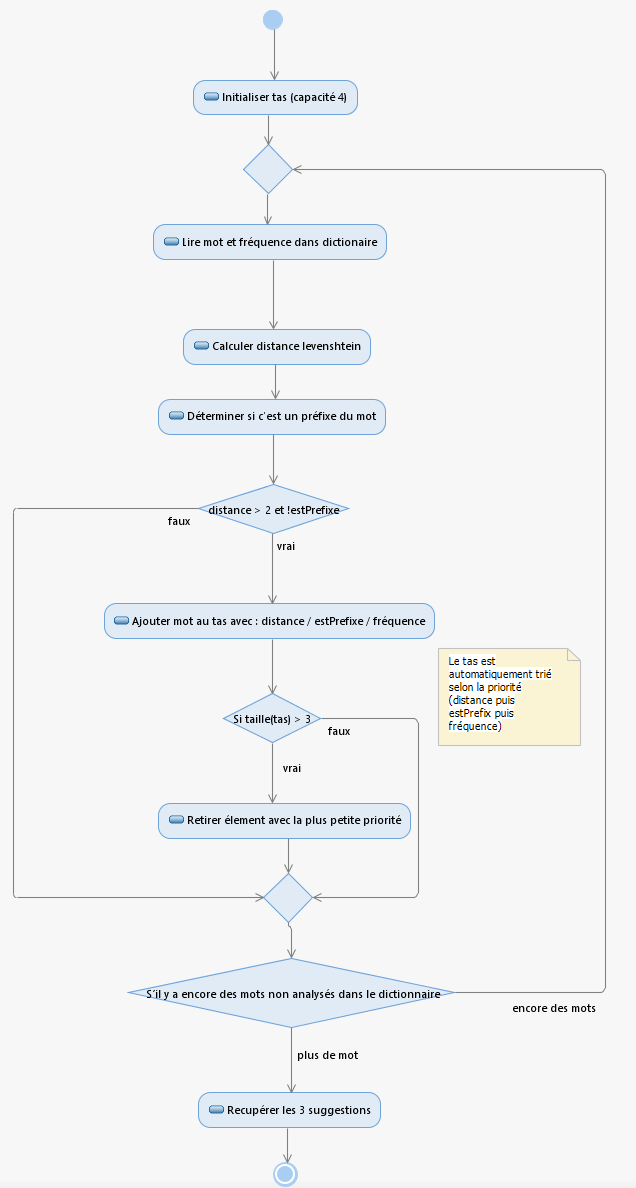
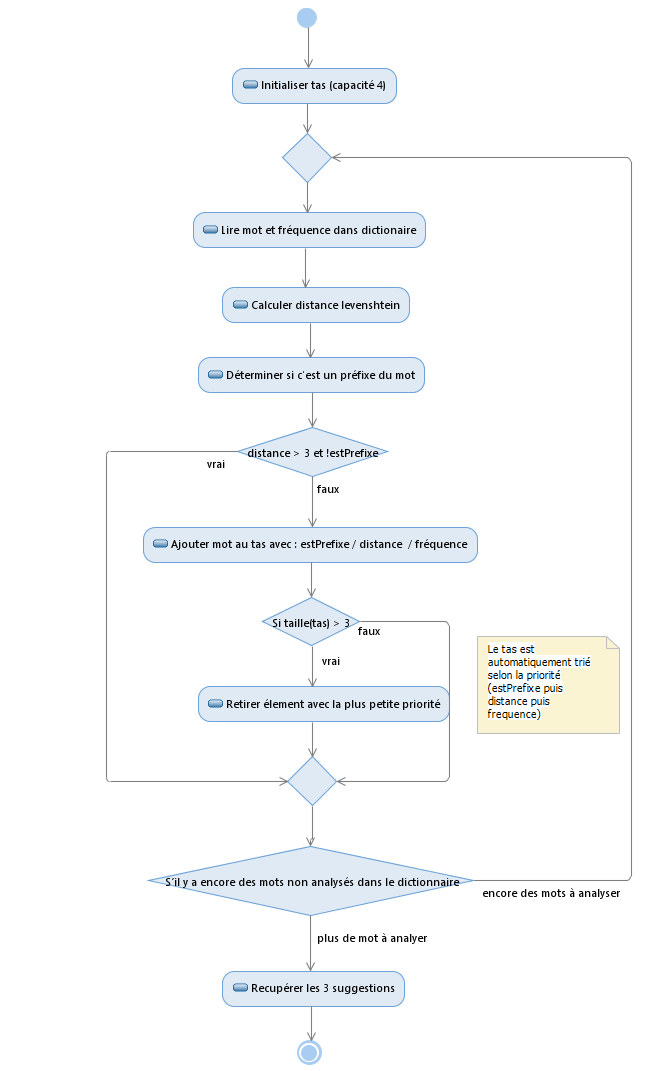
maj uml

Changed region(s): [[0.1494, 0.0, 0.9858, 1.0], [0.7469, 0.8319, 0.956, 0.8627], [0.2689, 0.4314, 0.2987, 0.4622]]

diff --git a/docs/report.tex b/docs/report.tex
@@ -409,7 +409,7 @@ En testant notre algorithme, nous avons donc pris peur puisque, même après not
 
 Pour améliorer les suggestions, nous avons décider d'utiliser une des fréquences présentent dans le dictionnaire. Nous avons choisi d'utiliser la fréquence d'utilisation dans les livres mais nous avions d'autres possibilités, comme la fréquence d'utilisation dans les films. Nous avons développé un programme en \langage{Python} qui convertit les fichiers \var{.tsv} en \var{.csv}, un format familier pour nous. Ce programme élimine les doublons, les mots contenant des espaces indésirables, ainsi que les colonnes superflues. Notre objectif est de conserver uniquement le mot et sa fréquence, donc nous avons supprimé les autres informations telles que la nature du mot (verbe, nom\dots), l'infinitif, et ainsi de suite. Nous utiliserons la fréquence par la suite. \\
 
-Ensuite, nous avons ajouté, un programme qui permet de déterminer si la chaîne écrite par l'utilisateur est le préfixe du mot du dictionnaire que nous sommes en train de traiter. Nous l'utiliserons également par la suite pour suggérer les mots les plus cohérent avec la chaîne écrite par l'utilisateur.\\
+Ensuite, nous avons ajouté une fonction qui permet de déterminer si la chaîne écrite par l'utilisateur est le préfixe du mot du dictionnaire que nous sommes en train de traiter. Nous l'utiliserons également par la suite pour suggérer les mots les plus cohérent avec la chaîne écrite par l'utilisateur.\\
 
 Ensuite, si la chaîne écrite n'est pas le préfixe du mot et que la distance de Levenshtein est supérieur à 3 entre la chaîne et le mot que l'on est en train de traiter, alors on passe au mot suivant. Sinon, On ajoute le mot à un tas. On trie ce tas selon la préfixation, puis selon la distance de Levenshtein, et enfin selon la fréquence. On commence par le tri des préfixes car nous voulons que les suggestions complètent le mot en cours plutôt que de le corriger, comme le fait les suggestions sur un téléphone portable. On observe qu'en utilisant d'abord le tri de la distance en premier, on obtient plutôt une correction possible du mot plutôt qu'une complétion.\\
 
@@ -429,7 +429,7 @@ Ensuite, si la chaîne écrite n'est pas le préfixe du mot et que la distance d
 \end{figure}
 
 Prenons l'exemple du mot \og{} bonjour \fg{}. Imaginons que nous avons pour l'instant écrit \ voulons écrire le mot \og{} bonj \fg{}, alors les suggestions faites grâce au tri des préfixes seront des mots tels que \og{} bonjour \fg{}, \og{} bonjours \fg{} et \og{} bons \fg{} comme on le voit dans la figure~\ref{fig:tri_prefixe}.
-Maintenant imaginons que nous faisons une faute : \og{} bpnj\fg{}, on observe qu'aucun mot commence par ce préfixe, on commence donc a trier selon la distance de Levenshtein qui va nous permettre de corriger l'erreur et de proposer, en priorité, des mots qui ont une distance inférieure à 3. Enfin, le tri selon la fréquence permet de gérer le cas d'une égalité face au tri des préfixe et de la distance : avec les mots \og{} bonjour \fg{} et \og{} bonsoir \fg{}  nous avons le même préfixe\og{} bon \fg{} et la même distance. Cependant, c'est le mot\og{} bonjour \fg{} qui aura la plus grande priorité car il est beaucoup plus présent dans les livres que le mot\og{} bonsoir \fg{}.\\
+Maintenant imaginons que nous faisons une faute : \og{} bpnj\fg{}, on observe qu'aucun mot commence par ce préfixe, on commence donc a trier selon la distance de Levenshtein qui va nous permettre de corriger l'erreur et de proposer, en priorité, des mots qui ont une distance inférieure à 3. Enfin, le tri selon la fréquence permet de gérer le cas d'une égalité face au tri des préfixe et de la distance : avec les mots \og{} bonjour \fg{} et \og{} bonsoir \fg{}  nous avons le même préfixe\og{} bon \fg{} et la même distance. Cependant, c'est le mot \og{} bonjour \fg{} qui aura la plus grande priorité car il est beaucoup plus présent dans les livres que le mot \og{} bonsoir \fg{}.\\
 
 Enfin, si la taille du tas est supérieure à 3 alors on retire l'élément avec la plus petite priorité pour garder que 3 suggestions. \\
 On répète ces opérations jusqu'à ce qu'il n'y ait plus de mots dans le dictionnaire. Pour finir, on retourne les 3 suggestions. \\
